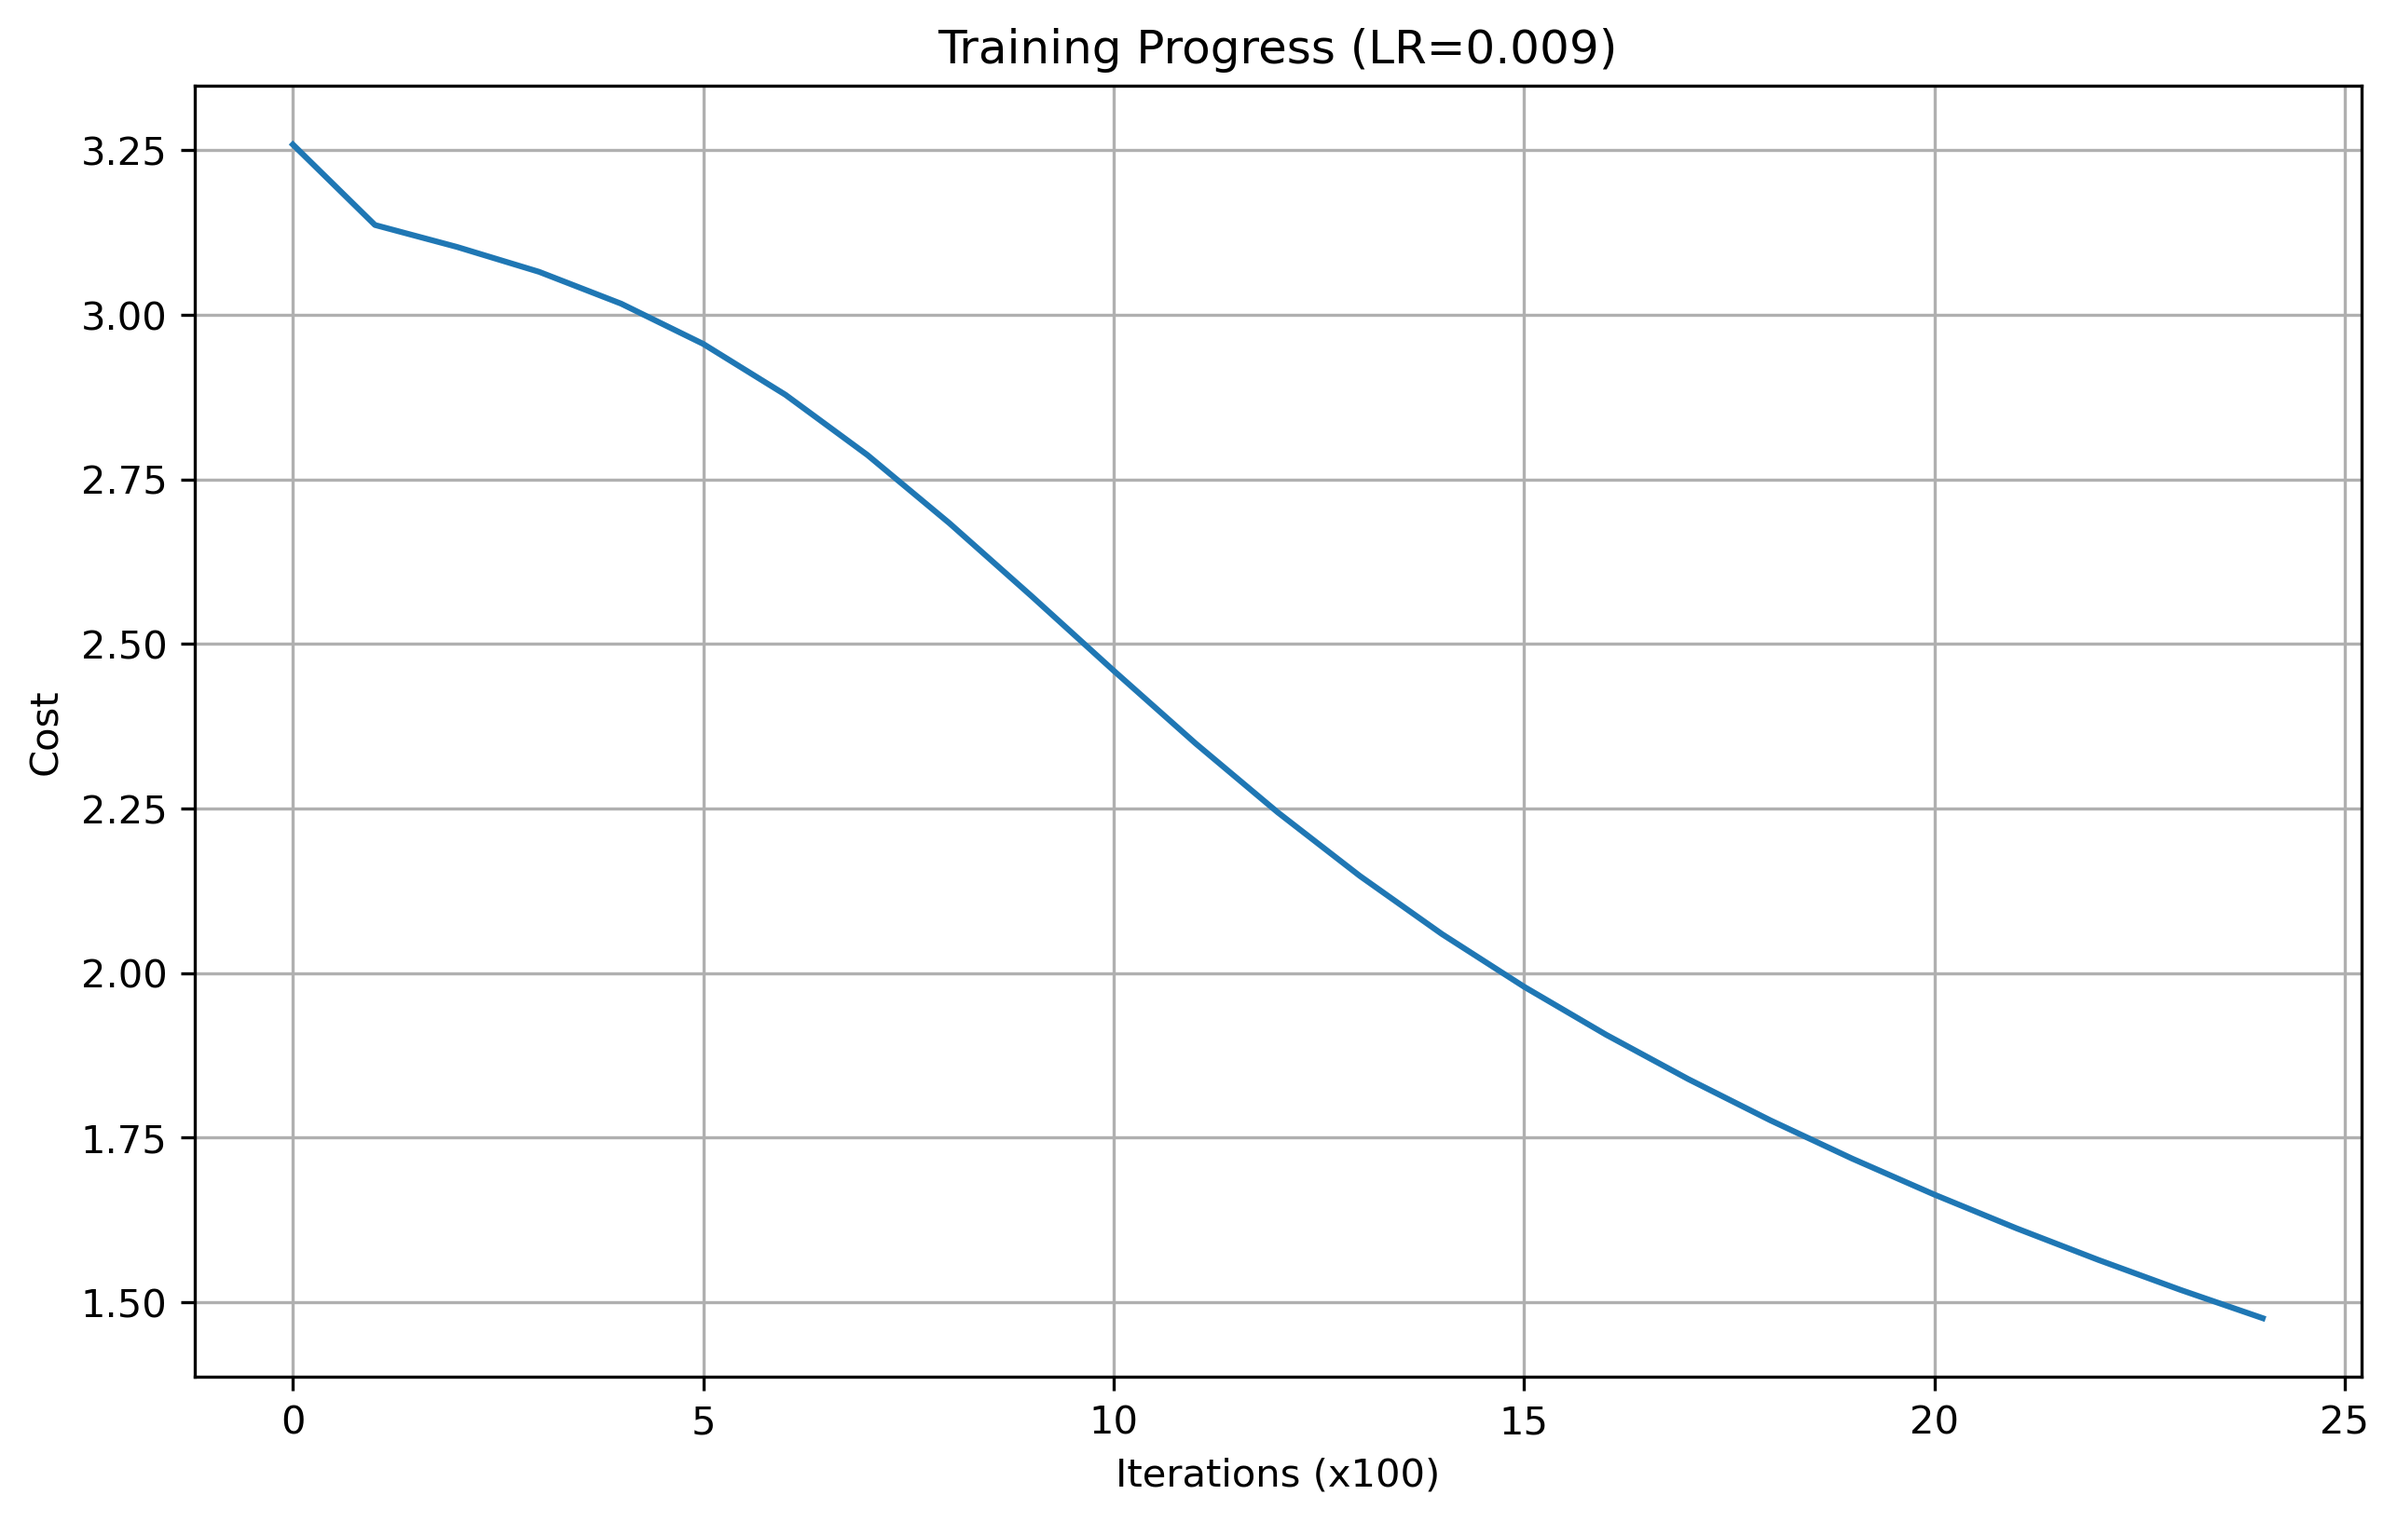
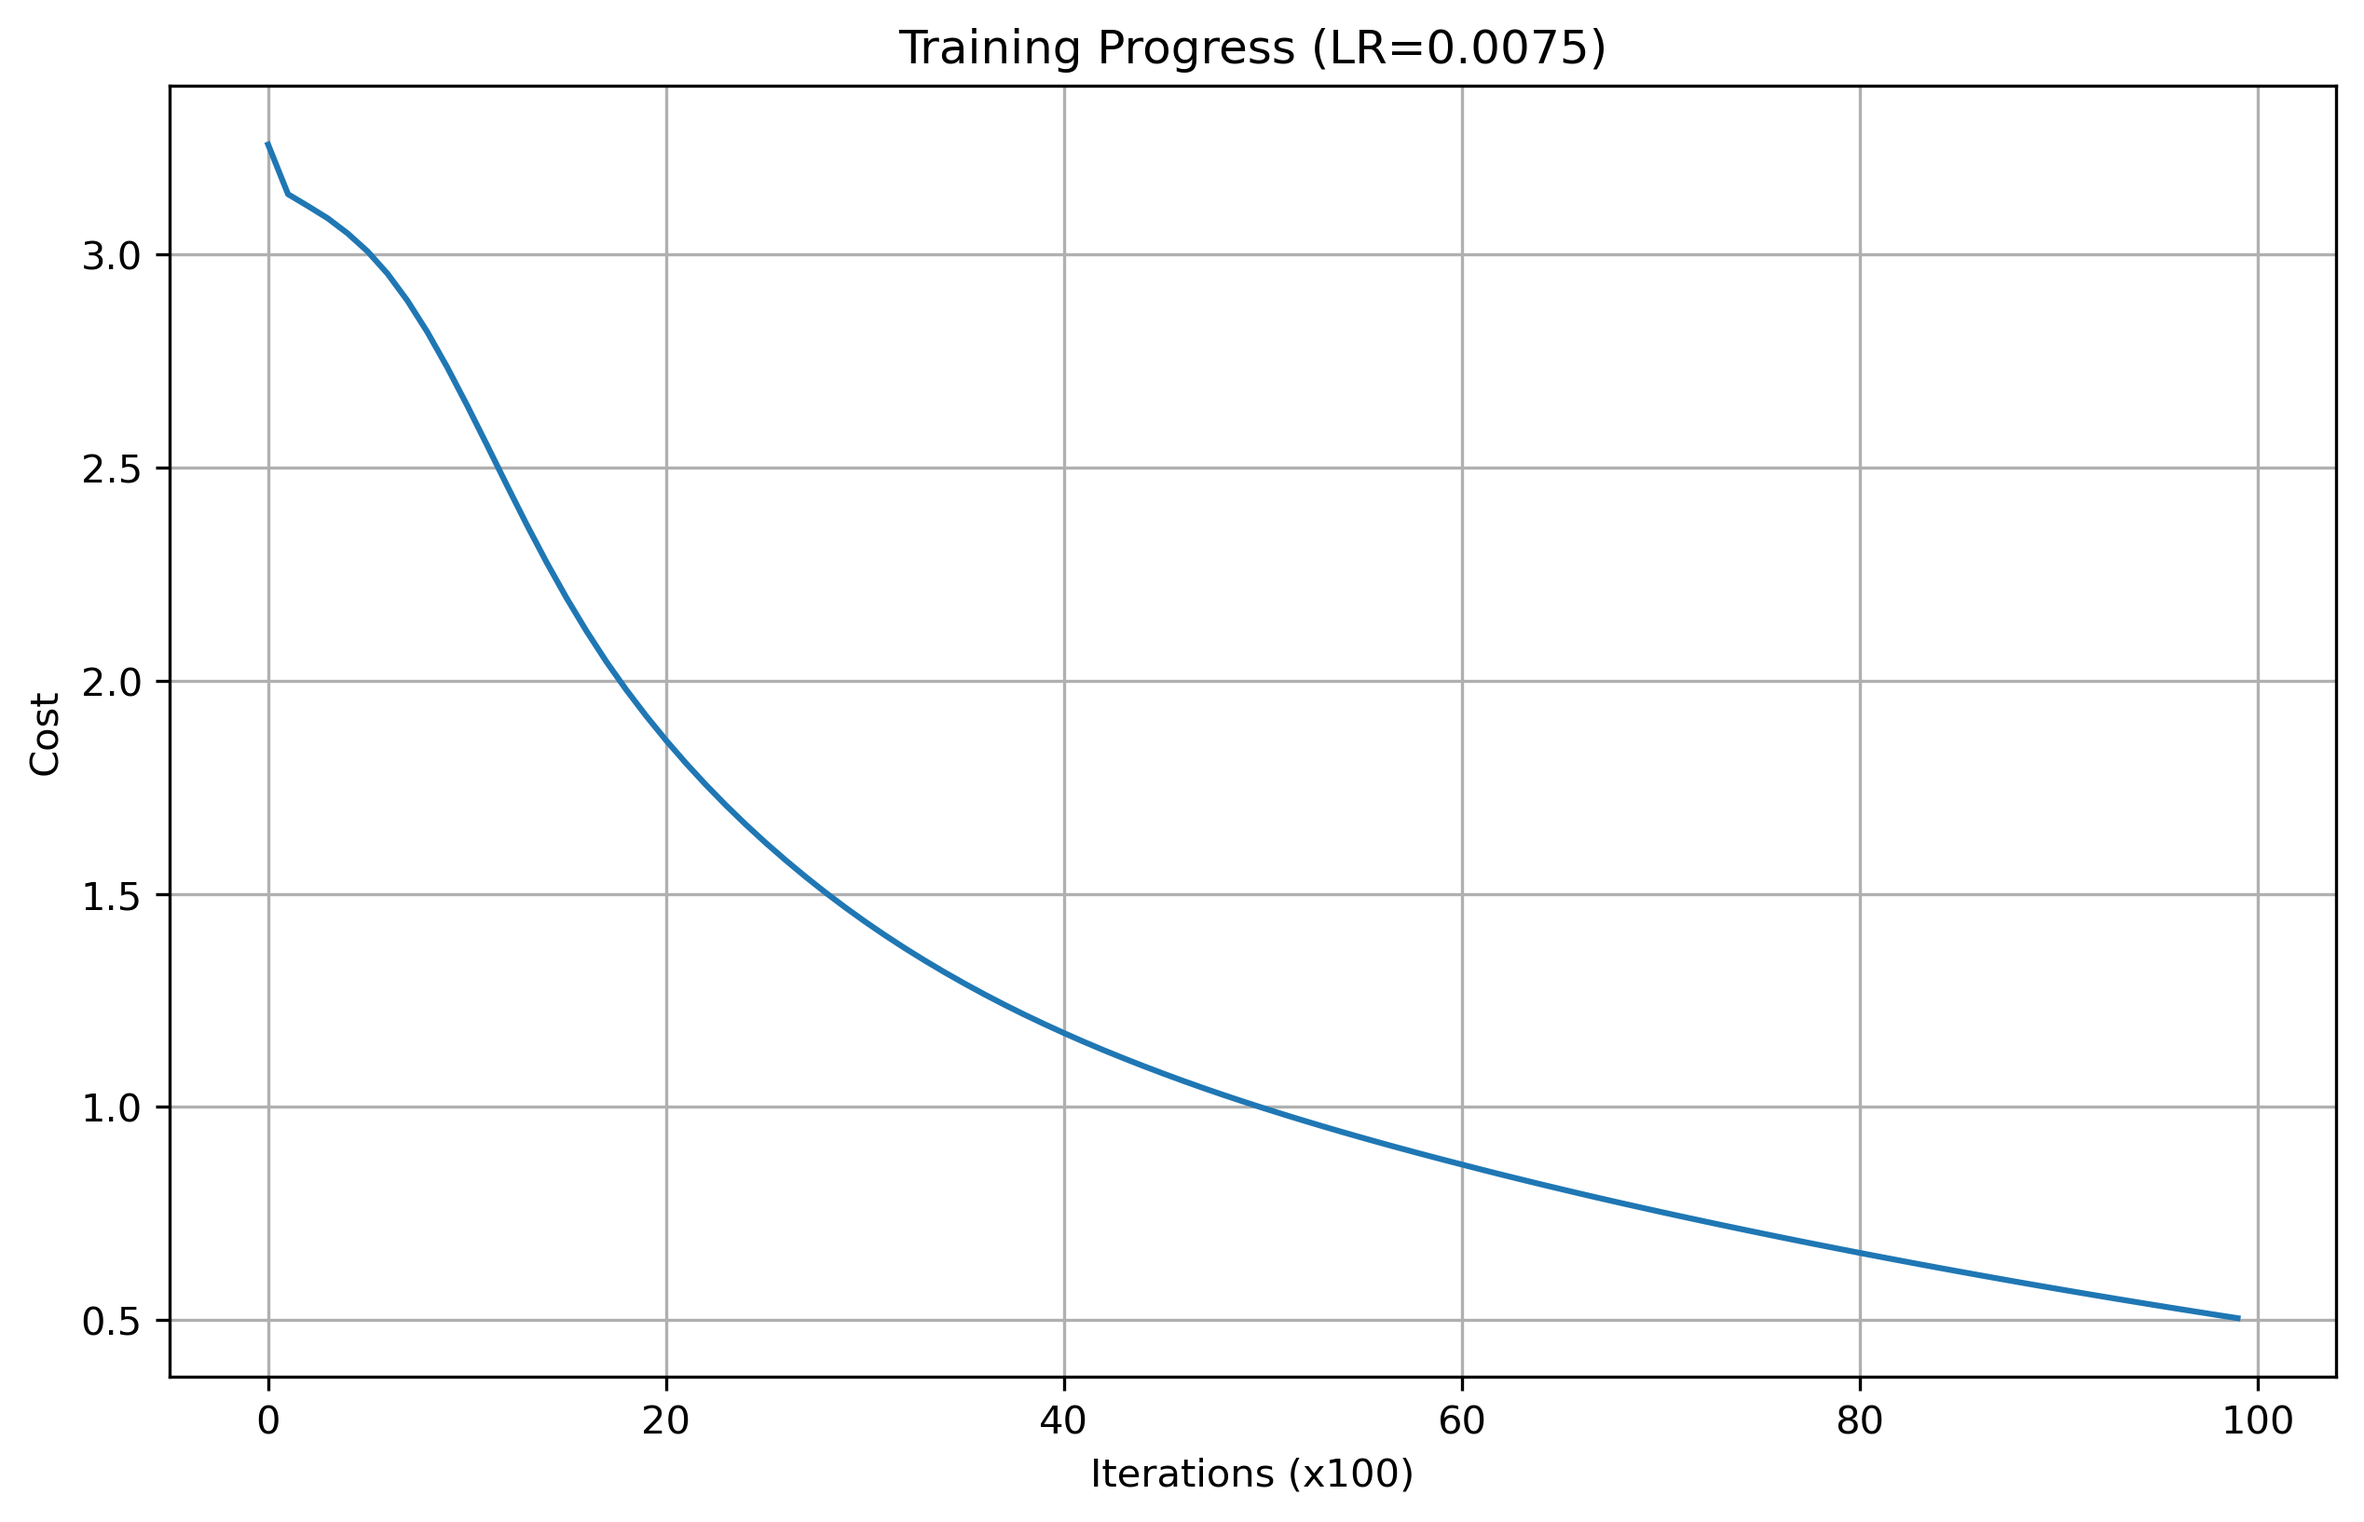
Found optimal learning rate, increased training data accuracy from 59% to 97%

diff --git a/scripts/tune_lr.py b/scripts/tune_lr.py
@@ -1,0 +1,55 @@
+import sys
+import os
+sys.path.insert(0, os.path.abspath(os.path.join(os.path.dirname(__file__), '..')))
+
+from src.model import DeepNeuralNetwork
+from src.utils import load_data
+import numpy as np
+
+print("="*60)
+print("LEARNING RATE SEARCH")
+print("="*60)
+
+train_x, train_y, test_x, test_y, classes = load_data()
+
+# Test range of learning rates
+learning_rates = [0.005, 0.0075, 0.01, 0.015, 0.02, 0.025, 0.03]
+results = []
+
+for lr in learning_rates:
+    print(f"\n[Testing LR={lr}]")
+    model = DeepNeuralNetwork([784, 128, 64, 24], learning_rate=lr)
+    
+    # Train for 5000 iterations (faster than 10K)
+    model.train(train_x, train_y, num_iterations=5000, print_cost=False)
+    
+    train_acc = model.evaluate(train_x, train_y)
+    test_acc = model.evaluate(test_x, test_y)
+    gap = train_acc - test_acc
+    final_cost = model.costs[-1] if model.costs else None
+    
+    results.append({
+        'lr': lr,
+        'train': train_acc,
+        'test': test_acc,
+        'gap': gap,
+        'final_cost': final_cost
+    })
+    
+    print(f"  Train: {train_acc:.2%} | Test: {test_acc:.2%} | Gap: {gap:.2%} | Cost: {final_cost:.4f}")
+
+# Find best test accuracy
+best = max(results, key=lambda x: x['test'])
+
+print(f"\n{'='*60}")
+print("RESULTS SUMMARY")
+print(f"{'='*60}")
+print(f"{'LR':<8} {'Test':<8} {'Train':<8} {'Gap':<8} {'Cost':<8}")
+print("-"*60)
+for r in sorted(results, key=lambda x: x['test'], reverse=True):
+    marker = " ← BEST" if r == best else ""
+    print(f"{r['lr']:<8.4f} {r['test']:<8.2%} {r['train']:<8.2%} {r['gap']:<8.2%} {r['final_cost']:<8.4f}{marker}")
+
+print(f"\n✓ Best Learning Rate: {best['lr']}")
+print(f"✓ Best Test Accuracy: {best['test']:.2%}")
+print(f"✓ Train-Test Gap: {best['gap']:.2%}")

diff --git a/scripts/train.py b/scripts/train.py
@@ -26,13 +26,13 @@ def main():
     
     print(f"\n[2/5] Creating model...")
     print(f"Architecture: {layer_dims}")
-    model = DeepNeuralNetwork(layer_dims, learning_rate=0.009)
+    model = DeepNeuralNetwork(layer_dims, learning_rate=0.0075)
     
     # Train
     print(f"\n[3/5] Training...")
     parameters, costs = model.train(
         train_x, train_y, 
-        num_iterations=2500, 
+        num_iterations=10000, 
         print_cost=True
     )
     
